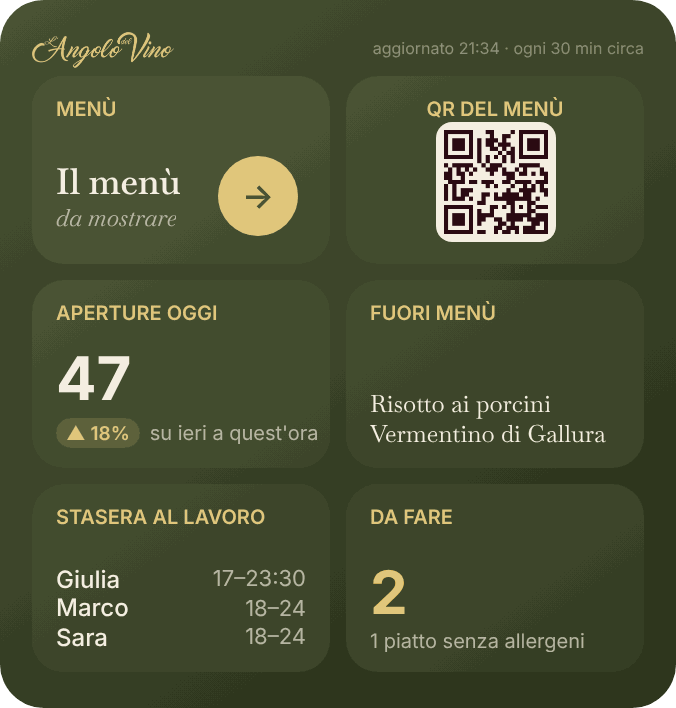
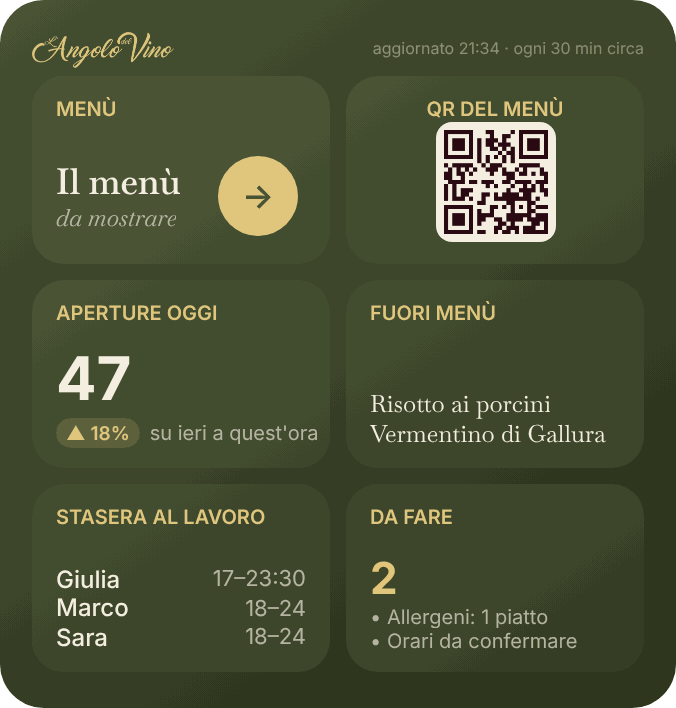
Versione 0.34.1: «Da fare» del Pannello elenca le prime due cose (non solo la prima) (#121)
Con più cose da fare il riquadro mostrava solo la prima: gli orari da confermare restavano
nascosti dietro gli allergeni. Ora il numero e sotto le prime due, con testi corti.

Claude-Session: https://claude.ai/code/session_01EJxiVCETf75PpRm3fVmtdi

Changed region(s): [[0.5281, 0.7768, 0.8698, 0.9322]]

diff --git a/src/lib/widget-data.ts b/src/lib/widget-data.ts
@@ -744,6 +744,14 @@ const TODO_SHORT: Record<string, (n: number, mese?: string) => string> = {
   "ore da mandare": (n, mese) => `Ore di ${mese ?? "questo mese"}: ne mancano ${n}`,
 };
 const todoShort = (r: { n: number; breve: string; mese?: string }) => TODO_SHORT[r.breve]?.(r.n, r.mese) ?? todoText(r);
+// Cortissime, per il riquadro «Da fare» del Pannello (metà larghezza, due righe).
+const TODO_TILE: Record<string, (n: number) => string> = {
+  allergeni: (n) => `Allergeni: ${n} ${n === 1 ? "piatto" : "piatti"}`,
+  "da preparare": () => "Orari da preparare",
+  "da confermare": () => "Orari da confermare",
+  "da approvare": (n) => `Ore da approvare: ${n}`,
+  "ore da mandare": (n) => `Ore da mandare: ${n}`,
+};
 
 // ---------- Pannello: sei scorciatoie, ognuna con il suo dato
 export async function dataPannello(owner: { kind: "admin" } | { kind: "employee"; employeeId: string }) {
@@ -781,6 +789,8 @@ export async function dataPannello(owner: { kind: "admin" } | { kind: "employee"
     // Quante cose ci sono da fare (non la somma: piatti e dipendenti non si sommano); sotto, la prima.
     daFare: daFare.length,
     daFarePrimo: daFare[0] ? { testo: todoText(daFare[0]), link: daFare[0].link } : null,
+    // Con più cose da fare il riquadro le elenca (corte), così nessuna resta nascosta dietro la prima.
+    daFareVoci: daFare.map((r) => TODO_TILE[r.breve]?.(r.n) ?? todoShort(r)),
     link: "/menu",
     linkStatistiche: `/statistiche?dal=${today}&al=${today}`,
     linkTurni: `/orari?date=${today}`,

diff --git a/public/widget/angolo.js b/public/widget/angolo.js
@@ -1440,7 +1440,13 @@ function wPannello(fam, d, v) {
     const df = tessera(r3, tw, th, d.daFarePrimo ? d.daFarePrimo.link : "/gestione-menu");
     testo(df, "DA FARE", F.titoletto(), C.oro);
     df.addSpacer();
-    if (d.daFare) {
+    if (d.daFare > 1 && d.daFareVoci) {
+      // Più cose: il numero e sotto le prime due, una per riga (le altre si vedono toccando).
+      testo(df, d.daFare, F.numero(22), C.ambra);
+      const voci = d.daFareVoci.slice(0, 2);
+      // Il numero dice quante sono in tutto; le altre si vedono toccando il riquadro.
+      for (const t of voci) testo(df, `• ${t}`, F.testo(10), C.crema2);
+    } else if (d.daFare) {
       // Le cose lunghe («3 dipendenti devono mandarti le ore di ottobre») vanno su due righe: numero più piccolo.
       const lungo = d.daFarePrimo.testo.length > 24;
       testo(df, d.daFare, F.numero(lungo ? 24 : 30), C.ambra);
